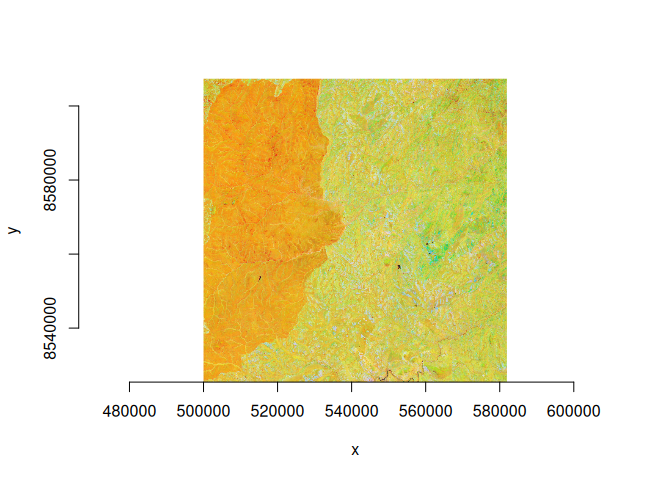
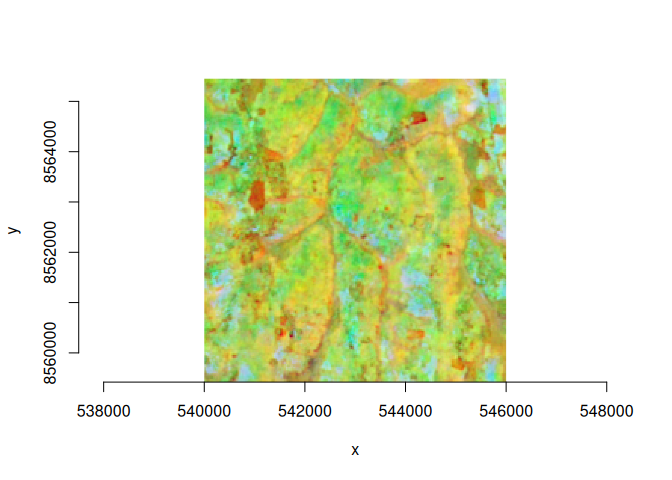
readme license description updates.

diff --git a/LICENSE.md b/LICENSE.md
@@ -1,0 +1,194 @@
+Apache License
+==============
+
+_Version 2.0, January 2004_
+_&lt;<http://www.apache.org/licenses/>&gt;_
+
+### Terms and Conditions for use, reproduction, and distribution
+
+#### 1. Definitions
+
+“License” shall mean the terms and conditions for use, reproduction, and
+distribution as defined by Sections 1 through 9 of this document.
+
+“Licensor” shall mean the copyright owner or entity authorized by the copyright
+owner that is granting the License.
+
+“Legal Entity” shall mean the union of the acting entity and all other entities
+that control, are controlled by, or are under common control with that entity.
+For the purposes of this definition, “control” means **(i)** the power, direct or
+indirect, to cause the direction or management of such entity, whether by
+contract or otherwise, or **(ii)** ownership of fifty percent (50%) or more of the
+outstanding shares, or **(iii)** beneficial ownership of such entity.
+
+“You” (or “Your”) shall mean an individual or Legal Entity exercising
+permissions granted by this License.
+
+“Source” form shall mean the preferred form for making modifications, including
+but not limited to software source code, documentation source, and configuration
+files.
+
+“Object” form shall mean any form resulting from mechanical transformation or
+translation of a Source form, including but not limited to compiled object code,
+generated documentation, and conversions to other media types.
+
+“Work” shall mean the work of authorship, whether in Source or Object form, made
+available under the License, as indicated by a copyright notice that is included
+in or attached to the work (an example is provided in the Appendix below).
+
+“Derivative Works” shall mean any work, whether in Source or Object form, that
+is based on (or derived from) the Work and for which the editorial revisions,
+annotations, elaborations, or other modifications represent, as a whole, an
+original work of authorship. For the purposes of this License, Derivative Works
+shall not include works that remain separable from, or merely link (or bind by
+name) to the interfaces of, the Work and Derivative Works thereof.
+
+“Contribution” shall mean any work of authorship, including the original version
+of the Work and any modifications or additions to that Work or Derivative Works
+thereof, that is intentionally submitted to Licensor for inclusion in the Work
+by the copyright owner or by an individual or Legal Entity authorized to submit
+on behalf of the copyright owner. For the purposes of this definition,
+“submitted” means any form of electronic, verbal, or written communication sent
+to the Licensor or its representatives, including but not limited to
+communication on electronic mailing lists, source code control systems, and
+issue tracking systems that are managed by, or on behalf of, the Licensor for
+the purpose of discussing and improving the Work, but excluding communication
+that is conspicuously marked or otherwise designated in writing by the copyright
+owner as “Not a Contribution.”
+
+“Contributor” shall mean Licensor and any individual or Legal Entity on behalf
+of whom a Contribution has been received by Licensor and subsequently
+incorporated within the Work.
+
+#### 2. Grant of Copyright License
+
+Subject to the terms and conditions of this License, each Contributor hereby
+grants to You a perpetual, worldwide, non-exclusive, no-charge, royalty-free,
+irrevocable copyright license to reproduce, prepare Derivative Works of,
+publicly display, publicly perform, sublicense, and distribute the Work and such
+Derivative Works in Source or Object form.
+
+#### 3. Grant of Patent License
+
+Subject to the terms and conditions of this License, each Contributor hereby
+grants to You a perpetual, worldwide, non-exclusive, no-charge, royalty-free,
+irrevocable (except as stated in this section) patent license to make, have
+made, use, offer to sell, sell, import, and otherwise transfer the Work, where
+such license applies only to those patent claims licensable by such Contributor
+that are necessarily infringed by their Contribution(s) alone or by combination
+of their Contribution(s) with the Work to which such Contribution(s) was
+submitted. If You institute patent litigation against any entity (including a
+cross-claim or counterclaim in a lawsuit) alleging that the Work or a
+Contribution incorporated within the Work constitutes direct or contributory
+patent infringement, then any patent licenses granted to You under this License
+for that Work shall terminate as of the date such litigation is filed.
+
+#### 4. Redistribution
+
+You may reproduce and distribute copies of the Work or Derivative Works thereof
+in any medium, with or without modifications, and in Source or Object form,
+provided that You meet the following conditions:
+
+* **(a)** You must give any other recipients of the Work or Derivative Works a copy of
+this License; and
+* **(b)** You must cause any modified files to carry prominent notices stating that You
+changed the files; and
+* **(c)** You must retain, in the Source form of any Derivative Works that You distribute,
+all copyright, patent, trademark, and attribution notices from the Source form
+of the Work, excluding those notices that do not pertain to any part of the
+Derivative Works; and
+* **(d)** If the Work includes a “NOTICE” text file as part of its distribution, then any
+Derivative Works that You distribute must include a readable copy of the
+attribution notices contained within such NOTICE file, excluding those notices
+that do not pertain to any part of the Derivative Works, in at least one of the
+following places: within a NOTICE text file distributed as part of the
+Derivative Works; within the Source form or documentation, if provided along
+with the Derivative Works; or, within a display generated by the Derivative
+Works, if and wherever such third-party notices normally appear. The contents of
+the NOTICE file are for informational purposes only and do not modify the
+License. You may add Your own attribution notices within Derivative Works that
+You distribute, alongside or as an addendum to the NOTICE text from the Work,
+provided that such additional attribution notices cannot be construed as
+modifying the License.
+
+You may add Your own copyright statement to Your modifications and may provide
+additional or different license terms and conditions for use, reproduction, or
+distribution of Your modifications, or for any such Derivative Works as a whole,
+provided Your use, reproduction, and distribution of the Work otherwise complies
+with the conditions stated in this License.
+
+#### 5. Submission of Contributions
+
+Unless You explicitly state otherwise, any Contribution intentionally submitted
+for inclusion in the Work by You to the Licensor shall be under the terms and
+conditions of this License, without any additional terms or conditions.
+Notwithstanding the above, nothing herein shall supersede or modify the terms of
+any separate license agreement you may have executed with Licensor regarding
+such Contributions.
+
+#### 6. Trademarks
+
+This License does not grant permission to use the trade names, trademarks,
+service marks, or product names of the Licensor, except as required for
+reasonable and customary use in describing the origin of the Work and
+reproducing the content of the NOTICE file.
+
+#### 7. Disclaimer of Warranty
+
+Unless required by applicable law or agreed to in writing, Licensor provides the
+Work (and each Contributor provides its Contributions) on an “AS IS” BASIS,
+WITHOUT WARRANTIES OR CONDITIONS OF ANY KIND, either express or implied,
+including, without limitation, any warranties or conditions of TITLE,
+NON-INFRINGEMENT, MERCHANTABILITY, or FITNESS FOR A PARTICULAR PURPOSE. You are
+solely responsible for determining the appropriateness of using or
+redistributing the Work and assume any risks associated with Your exercise of
+permissions under this License.
+
+#### 8. Limitation of Liability
+
+In no event and under no legal theory, whether in tort (including negligence),
+contract, or otherwise, unless required by applicable law (such as deliberate
+and grossly negligent acts) or agreed to in writing, shall any Contributor be
+liable to You for damages, including any direct, indirect, special, incidental,
+or consequential damages of any character arising as a result of this License or
+out of the use or inability to use the Work (including but not limited to
+damages for loss of goodwill, work stoppage, computer failure or malfunction, or
+any and all other commercial damages or losses), even if such Contributor has
+been advised of the possibility of such damages.
+
+#### 9. Accepting Warranty or Additional Liability
+
+While redistributing the Work or Derivative Works thereof, You may choose to
+offer, and charge a fee for, acceptance of support, warranty, indemnity, or
+other liability obligations and/or rights consistent with this License. However,
+in accepting such obligations, You may act only on Your own behalf and on Your
+sole responsibility, not on behalf of any other Contributor, and only if You
+agree to indemnify, defend, and hold each Contributor harmless for any liability
+incurred by, or claims asserted against, such Contributor by reason of your
+accepting any such warranty or additional liability.
+
+_END OF TERMS AND CONDITIONS_
+
+### APPENDIX: How to apply the Apache License to your work
+
+To apply the Apache License to your work, attach the following boilerplate
+notice, with the fields enclosed by brackets `[]` replaced with your own
+identifying information. (Don't include the brackets!) The text should be
+enclosed in the appropriate comment syntax for the file format. We also
+recommend that a file or class name and description of purpose be included on
+the same “printed page” as the copyright notice for easier identification within
+third-party archives.
+
+    Copyright [yyyy] [name of copyright owner]
+
+    Licensed under the Apache License, Version 2.0 (the "License");
+    you may not use this file except in compliance with the License.
+    You may obtain a copy of the License at
+
+      http://www.apache.org/licenses/LICENSE-2.0
+
+    Unless required by applicable law or agreed to in writing, software
+    distributed under the License is distributed on an "AS IS" BASIS,
+    WITHOUT WARRANTIES OR CONDITIONS OF ANY KIND, either express or implied.
+    See the License for the specific language governing permissions and
+    limitations under the License.

diff --git a/README.md b/README.md
@@ -7,9 +7,12 @@
 
 [![Lifecycle:
 experimental](https://img.shields.io/badge/lifecycle-experimental-orange.svg)](https://lifecycle.r-lib.org/articles/stages.html#experimental)
+[![R-CMD-check](https://github.com/belian-earth/cptkirk/actions/workflows/R-CMD-check.yaml/badge.svg)](https://github.com/belian-earth/cptkirk/actions/workflows/R-CMD-check.yaml)
 <!-- badges: end -->
 
-**Warp speed.** `cptkirk` is a remote, overview-aware `gdalwarp`.
+**“Warp speed!”** `cptkirk` warps remote Cloud-Optimised GeoTIFFs fast:
+it saturates the network with concurrent reads, then hands the warp to
+GDAL.
 
 It combines two tools that are each best-in-class at one thing:
 
@@ -25,7 +28,24 @@ it works out exactly which source pixels the warp will need, streams
 only those tiles over `async-tiff` at the appropriate overview level,
 stages them as an in-memory GDAL source, then hands the actual
 reprojection and resampling to GDAL. It reimplements none of GDAL’s warp
-logic; it only sizes the fetch.
+logic; it only sizes and saturates the fetch.
+
+## Two ways in
+
+- [`ck_warp()`](https://belian-earth.github.io/cptkirk/reference/ck_warp.html)
+  is the recommended, batteries-included entry point, with named `t_srs`
+  / `te` / `tr` / `ts` / `r` / `bands` arguments plus sensible defaults
+  (multi-threaded warp, generous working memory, and `tr`-grid-aligned
+  output so tiles at the same resolution stack cleanly).
+- [`warp_remote()`](https://belian-earth.github.io/cptkirk/reference/warp_remote.html)
+  is a faithful, defaults-free sibling of `gdalraster::warp()`, with the
+  same `src` / `dst` / `t_srs` / `cl_arg` call shape but the source
+  streamed remotely. Reach for it when you want GDAL’s exact behaviour
+  with full control via `cl_arg`.
+
+Both validate the request against a tiny in-memory probe *before*
+fetching, so a bad CRS, resampling method or creation option fails in
+milliseconds instead of after a download.
 
 ## Installation
 
@@ -41,9 +61,11 @@ library(cptkirk)
 
 # inspect a remote COG (header + IFDs only, no pixels fetched)
 url <- paste0(
-  "https://data.source.coop/tge-labs/aef/v1/annual/2021/36S/","xekh5rjs4wg6wb9b4-0000000000-0000000000.tiff")
+  "https://data.source.coop/tge-labs/aef/v1/annual/2021/36S/",
+  "xekh5rjs4wg6wb9b4-0000000000-0000000000.tiff"
+)
 
-cog_info(url)
+(m <- cog_info(url))
 #> ── cog_info ────────────────────────────────────────────────────────────────────
 #> <https://data.source.coop/tge-labs/aef/v1/annual/2021/36S/xekh5rjs4wg6wb9b4-0000000000-0000000000.tiff>
 #> size: 8192 x 8192 px (67.1 Mpx)
@@ -55,18 +77,24 @@ cog_info(url)
 #> 128x128, 64x64, 32x32, 16x16, 8x8, 4x4, 2x2, 1x1)
 #> band names: "A00", "A01", "A02", "A03", "A04", "A05", …, "A62", and "A63"
 
-# warp an area of interest straight to a local GeoTIFF
-r <- warp_remote(
-  src    = url,
-  dst    = tempfile(fileext = ".tif"),
-  tr     = c(30, 30),                  # target resolution
-  r      = "average",
-  bands  = c(1, 2, 3)                   # subset bands
+# warp just a ~6 km window of the tile -- only the source tiles covering this
+# extent are streamed
+gt <- m$geotransform
+x0 <- gt[1] + 4000 * gt[2]
+y0 <- gt[4] + 4000 * gt[6]
+te <- c(x0, y0 - 6000, x0 + 6000, y0)   # AOI in the tile's CRS (EPSG:32736)
+
+r <- ck_warp(
+  src   = url,
+  dst   = tempfile(fileext = ".tif"),
+  te    = te,                # area of interest
+  tr    = c(30, 30),         # 30 m output (an overview is selected)
+  r     = "average",
+  bands = c(1, 2, 3)         # subset bands at the fetch
 )
 
-
 ds <- new(gdalraster::GDALRaster, r)
-gdalraster::plot_raster(ds, xsize=800, ysize=800)
+gdalraster::plot_raster(ds, xsize = 800, ysize = 800)
 ```
 
 <img src="man/figures/README-unnamed-chunk-2-1.png" alt="" width="100%" />
@@ -75,9 +103,25 @@ gdalraster::plot_raster(ds, xsize=800, ysize=800)
 ds$close()
 ```
 
-`te`/`tr`/`ts`/`r`/`t_srs` follow the `gdalwarp` interface. Any
-additional raw `gdalwarp` flags pass straight through via `cl_arg` and
-are forwarded to `gdalraster::warp()`.
+`t_srs` / `te` / `tr` / `ts` / `r` follow the `gdalwarp` interface, and
+any extra raw flags pass straight through via `cl_arg`. `ck_warp()`
+aligns output to the `tr` grid by default (gdalwarp `-tap`); set
+`tap = FALSE`, or use `warp_remote()`, for GDAL’s exact requested
+extent.
+
+Warping many areas from the same raster? Open it once with
+[`cog_source()`](https://belian-earth.github.io/cptkirk/reference/cog_source.html)
+and pass the handle in place of the URL to pay the metadata round-trips
+only once.
+
+## Authentication
+
+Remote object-store sources (`s3://`, `gs://`, `az://`) authenticate
+from the **process environment**, using the variable names
+`object_store` documents (`AWS_ACCESS_KEY_ID` / `AWS_SECRET_ACCESS_KEY`
+/ `AWS_REGION`, `GOOGLE_SERVICE_ACCOUNT`, `AZURE_STORAGE_ACCOUNT_NAME`,
+…). Credentials never pass through R. For public buckets set
+`AWS_SKIP_SIGNATURE=true`, or just use the `https://` URL.
 
 ## How it picks what to fetch
 